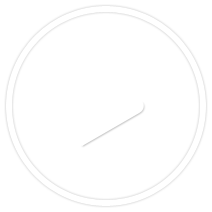
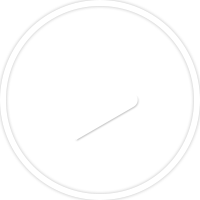
Bug 906887 - [Gallery] HD Play Button Grey Overlay isnt aligned with white circle boarder

diff --git a/apps/gallery/style/VideoPlayer.css b/apps/gallery/style/VideoPlayer.css
@@ -23,14 +23,14 @@
   height: 10.6rem;
   left: calc(50% - 5.3rem);
   top: calc(50% - 5.3rem);
-  background: url("images/video_play_button.png") no-repeat center center / 10.6rem,
-              url("images/video_play_normal.png") no-repeat center center / 10.6rem;
+  background: url("images/video_play_button.png") no-repeat center center / 10rem,
+              url("images/video_play_normal.png") no-repeat center center / 10rem;
   border-width: 0;
 }
 
 .videoPlayerPlayButton:active {
-  background: url("images/video_play_button.png") no-repeat center center / 10.6rem,
-              url("images/video_play_focus.png") no-repeat center center / 10.6rem;
+  background: url("images/video_play_button.png") no-repeat center center / 10rem,
+              url("images/video_play_focus.png") no-repeat center center / 10rem;
 }
 
 .videoPlayerPlayButton.hidden {
